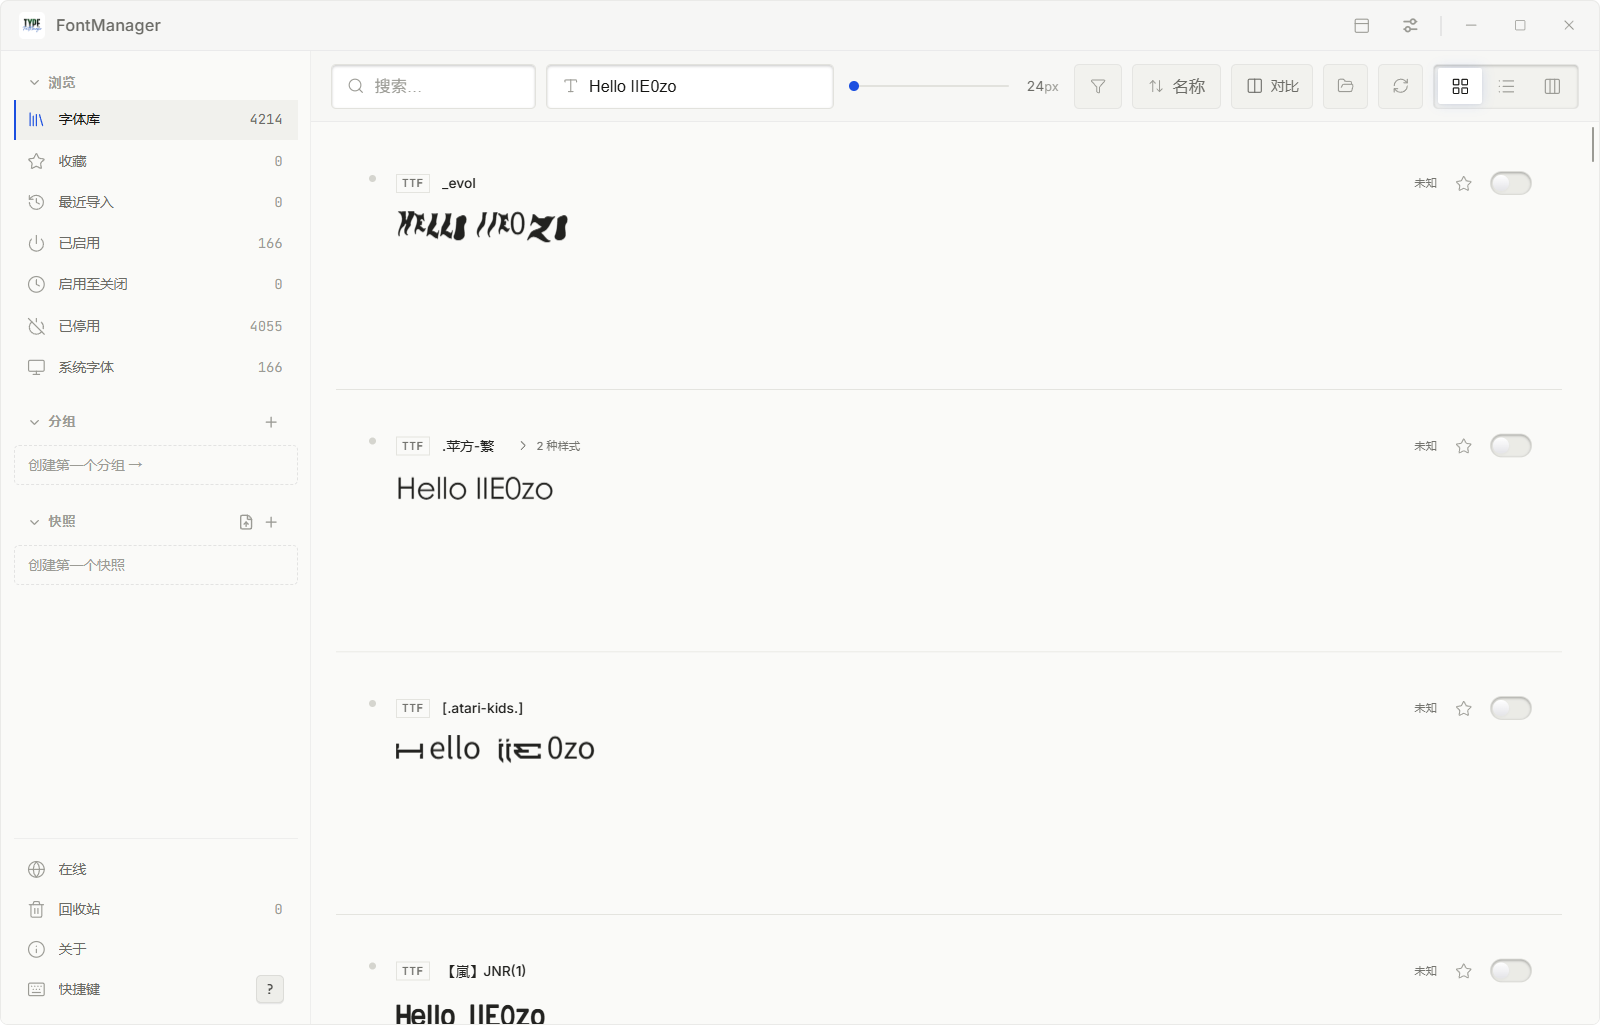
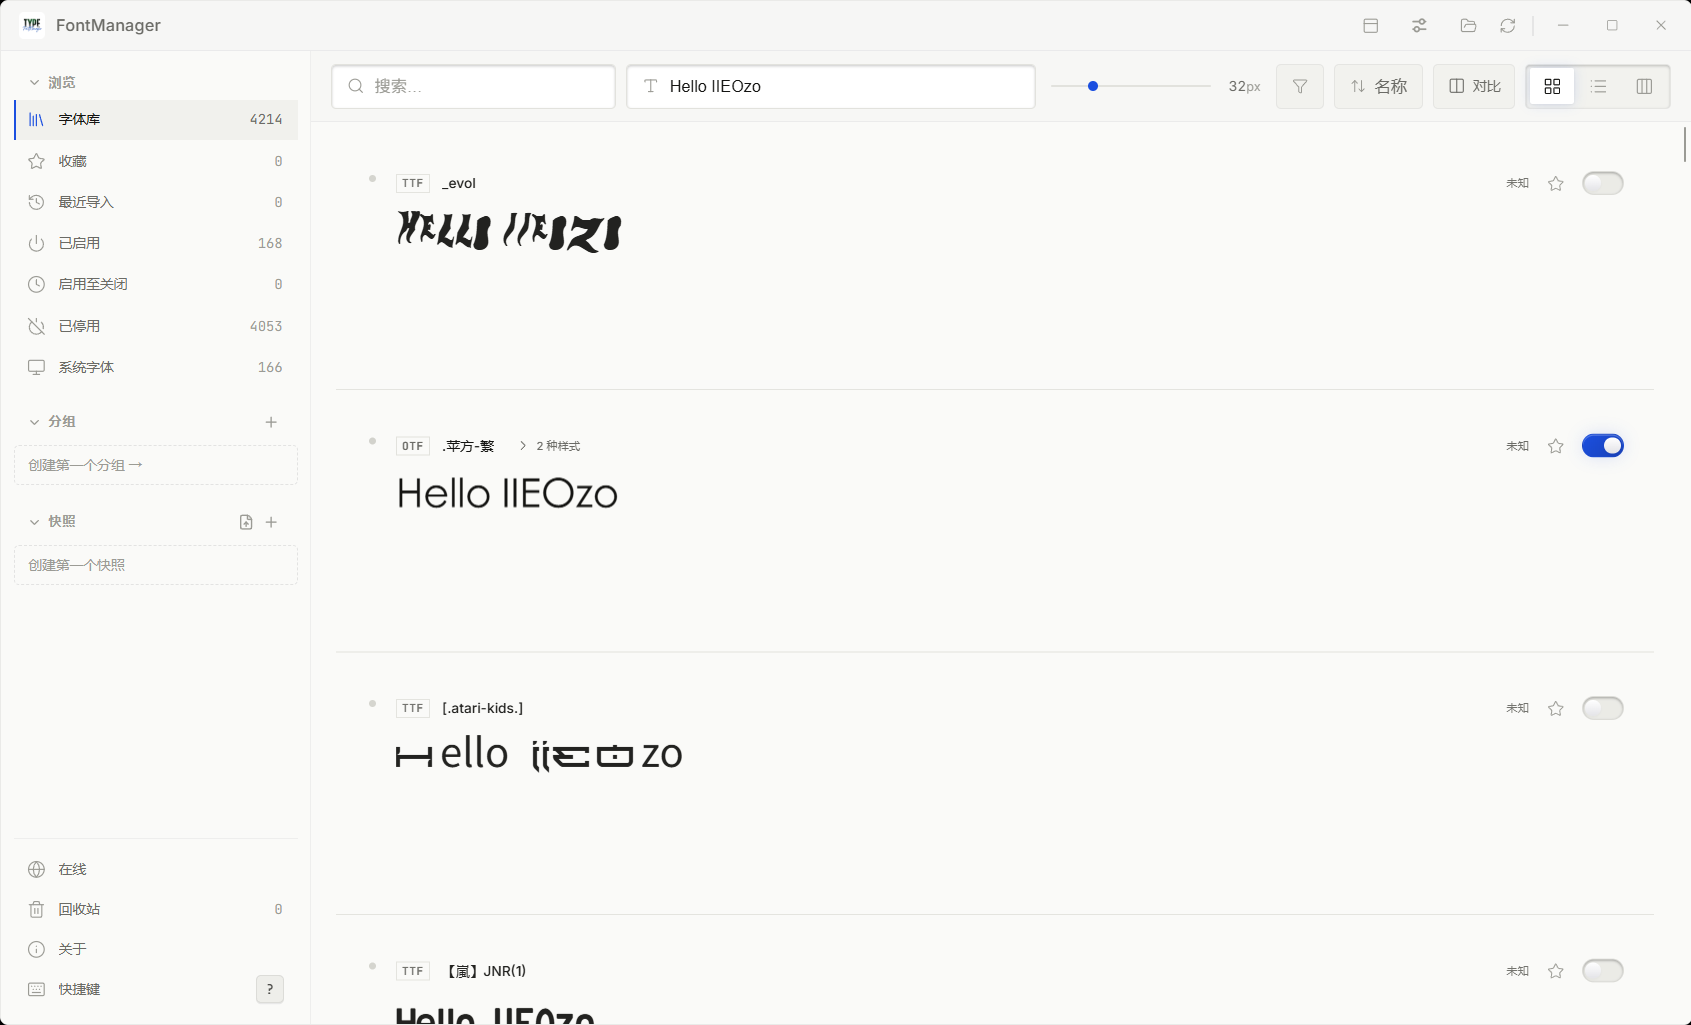
docs(2.0.0): 主界面截图换成 2.0.0 实机画面
标题栏里已经能看到「导入文件夹 / 重新扫描」，顶栏只剩视图切换；
顺带把 README 两处 main.png 的防缓存参数从 1.9.3 升到 2.0.0。

diff --git a/README.md b/README.md
@@ -34,7 +34,7 @@ and MCP when you want your tools to join in.
 
 <br>
 
-<img src="main.png?v=1.9.3" alt="FontManager — sidebar, toolbar, font cards with live previews" width="920" />
+<img src="main.png?v=2.0.0" alt="FontManager — sidebar, toolbar, font cards with live previews" width="920" />
 
 <sub>The library: every family rendered live, one toggle away from any app's font menu.</sub>
 
@@ -113,7 +113,7 @@ one-click activation, and the iron rule that **your font files stay on your mach
 
 ### 2. Know the main window
 
-![Main window: sidebar, toolbar, font cards with live previews](main.png?v=1.9.3)
+![Main window: sidebar, toolbar, font cards with live previews](main.png?v=2.0.0)
 
 **Find your way first: the window has five regions**
 

diff --git a/README.zh-CN.md b/README.zh-CN.md
@@ -34,7 +34,7 @@
 
 <br>
 
-<img src="main.png?v=1.9.3" alt="FontManager —— 左侧栏、顶栏工具、字体卡片与实时预览" width="920" />
+<img src="main.png?v=2.0.0" alt="FontManager —— 左侧栏、顶栏工具、字体卡片与实时预览" width="920" />
 
 <sub>字体库：每个字族都以自己的字形实时渲染，离任何应用的字体菜单都只差一个开关。</sub>
 
@@ -104,7 +104,7 @@ FontManager 在这个起点上加了什么：
 
 ### 2. 认识主界面
 
-![主界面：左侧栏、顶栏工具、字体卡片与实时预览](main.png?v=1.9.3)
+![主界面：左侧栏、顶栏工具、字体卡片与实时预览](main.png?v=2.0.0)
 
 **先认路：主界面分五个区**
 
